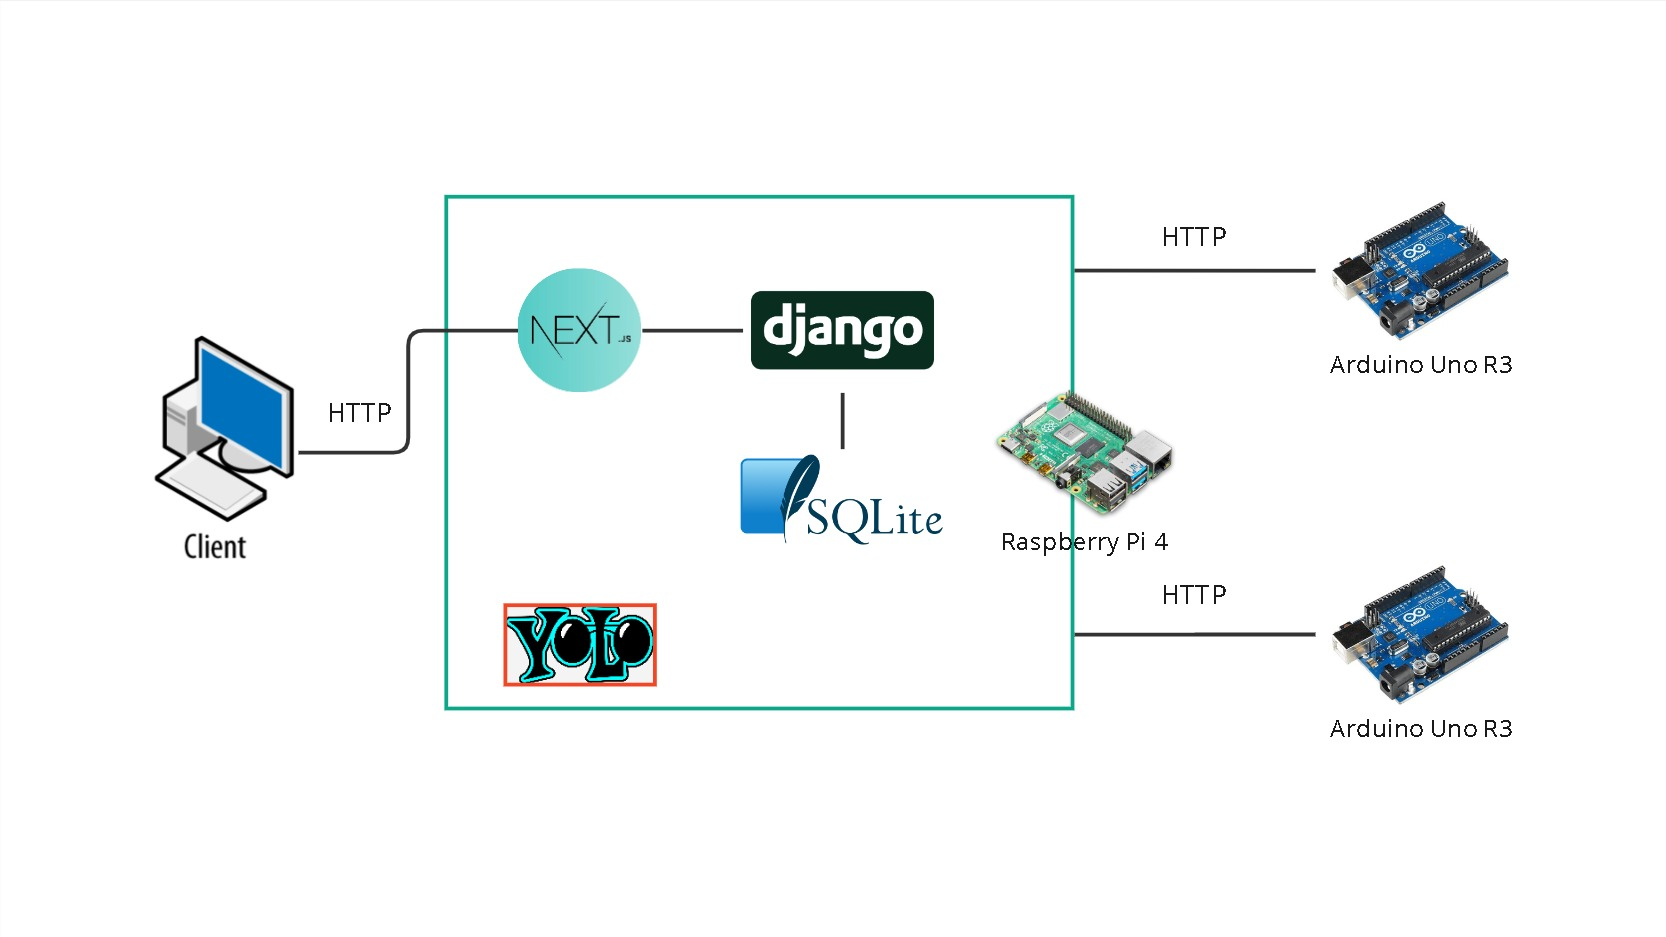
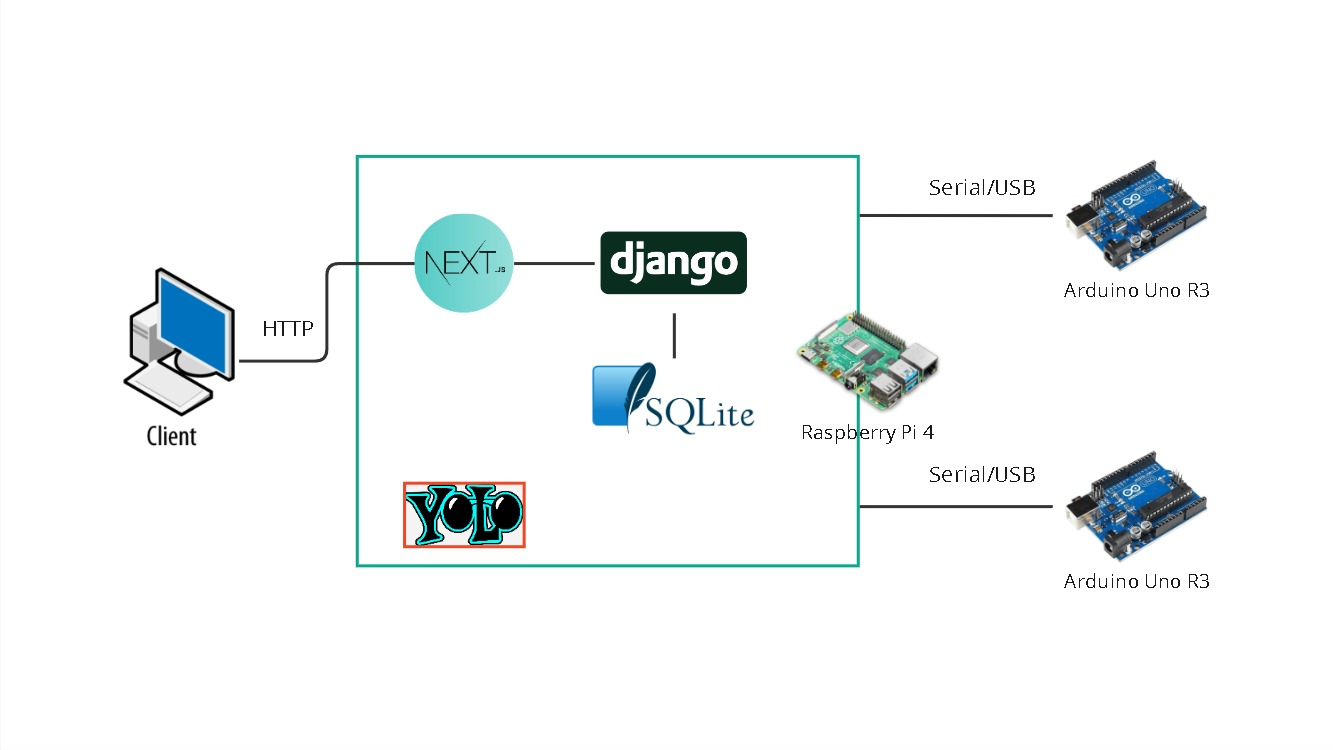
doc-fix: Arduino communication (#9)
* docs: add improvement suggestions for the Esteira Inteligente project

* docs: update improvement suggestions

* docs: update EI.jpg asset

* docs: update communication method details in architecture documentation

diff --git a/docs/projeto/arquitetura.md b/docs/projeto/arquitetura.md
@@ -27,7 +27,7 @@ O sistema permite que o usuário solicite kits de peças por meio de um cliente 
 - **Frontend (Next.js)**:
   - Interface gráfica para o usuário solicitar kits de peças e acompanhar a operação da esteira.
 - **Comunicação**:
-  - A Raspberry Pi se comunica com os Arduinos via **HTTP**.
+  - A Raspberry Pi se comunica com os Arduinos via **Serial/USB**.
   - O frontend se comunica com o backend via **HTTP**.
 
 ## Fluxo de Operação
@@ -45,7 +45,7 @@ O sistema permite que o usuário solicite kits de peças por meio de um cliente 
 - **Inteligência Artificial**: YOLOv8.
 - **Backend**: Django.
 - **Frontend**: Next.js, React.
-- **Comunicação**: HTTP.
+- **Comunicação**: HTTP, Serial/USB.
 
 ## 
 
